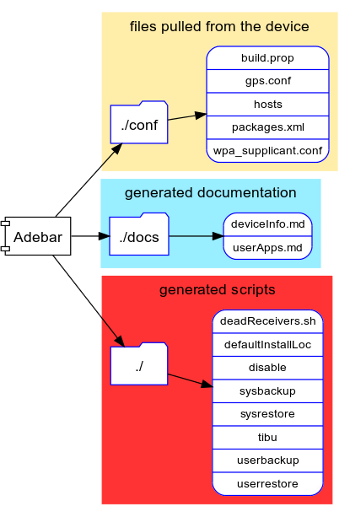
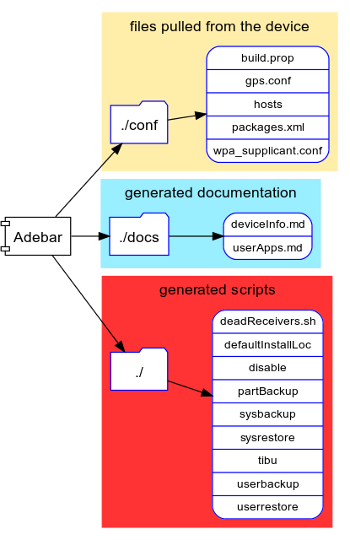
Partition info/backup added

Changed region(s): [[0.2, 0.0309, 0.9714, 0.9903], [0.0, 0.3404, 0.3143, 0.5261], [0.5714, 0.0928, 0.6, 0.1238]]

diff --git a/Configuration.md b/Configuration.md
@@ -37,6 +37,7 @@ A short information for each setting is contained in the example config file, wh
 * `USERDIR`: sub-directory where the backup scripts will place the ADB backups
   of your user-apps into (relative to where they're run). Default is "userApps".
 * `SYSDIR`: Similar, for the data backups of your system apps. Defaults to "sysApps".
+* `PARTBACKUPDIR`: again similar, for partition images
 * `DOCDIR`: Where to place created documentary files. Default is "docs", which results
   in `${STORAGE_PATH}/${OUTDIR}/docs`
 * `CONFDIR`: Similar for pulled config files (`conf/`). Default is "conf", which has
@@ -88,6 +89,21 @@ and `1` stands for „on”. By default, all features are enabled (i.e. set to `
 * `MK_INSTALLLOC`: Deal with the default-install-location (where apps should
   be installed by default: 0=auto (system decides), 1=device, 2=sdcard).
   Creates a 1-liner script to set that again.
+* `MK_PARTBACKUP`: Create a script to backup storage partitions (raw backup
+  images). Turned OFF by default.
+    * `PARTITION_SRC`: Where to obtain the partition details from. Reliability
+      of sources differs between manufacturers, devices, ROMs, and possible
+      other modifications. If this is set to "auto", *Adebar* tries to figure
+      the best source itself. It currently considers `/proc/mtd`, `/proc/emmc`,
+      `/dev/block/platform/*/by-name`, `/proc/partitions`, and `/proc/mounts`.
+      Moreover, found details are sometimes combined from different sources.
+      If for your device, *Adebar* seems to use the wrong source, or you want
+      to "speed up" things a little, you can define the source to be used with
+      this setting. Available options are currently: auto|mtd|emmc|byname|parts.
+      Most reliable details seem to be available on MediaTek devices, but I
+      have none at my disposal to check. You might get a „green hint“ if that
+      source was detected. If that happens, please get in contact with me, so I
+      can improve *Adebar* with your help.
 * `MK_DEVICEINFO`: Create a (Markdown) document containing device information.
   For an example, see the [[example deviceInfo.md]].
     * `MK_DEVICEINFO_SENSORS`: Sensor details are part of device-info; if you
@@ -98,6 +114,7 @@ and `1` stands for „on”. By default, all features are enabled (i.e. set to `
       might decide it's not useful to you (as it looks a bit cryptic). So I
       decided to give you the change to switch it off :)
     * `MK_DEVICEINFO_STATUS`: Device status details, such as battery status
+    * `MK_PARTINFO`: Include details on storage partitions
 
 ### UserApp specifics
 When an app is installed, Android records the „installer“ together with other

diff --git a/Hints.md b/Hints.md
@@ -70,3 +70,31 @@ inside – and of course the backups reside on one of the two.
 Disadvantage here is that *TiBu* touches the timestamps of all files, so the
 original timestamps are lost: All files appear as if they would have been created
 at the time the backup was made.
+
+
+## Partition Backup
+Version 1.1.0 of *Adebar* added the functionality to create a script for
+backing up your partitions block-wise, i.e. create partition images. Consider
+this rather experimental: This script is a side-product of the partition info
+in the device documentation. Such images can get rather big, and running the
+script as-is might result in unnecessary "duplicates" (to give you an example:
+If might backup `/dev/block/mmcblk1`, which basically is the entire „drive“,
+and additionally all its partitions separately: `/dev//dev/block/mmcblk1p*`).
+This is because there's no unified way of retrieving partition details. Other
+than with „normal Linux systems“, Android installations don't come with
+`/etc/fstab` by default (though you might find such with your custom ROM or
+*Busybox* installation). So *Adebar* collects all details, and lets you decide.
+
+Which also is the reason this generated script is not made executable (so you
+don't run it accidentally before having it investigated and adjusted to your
+needs).
+
+The generated images could, similar to a *Nandroid* backup, be used to restore
+the device. But be very careful with this approach: Never ever try writing a
+partition which is in use (e.g. do not replace `/system` while your device is
+running in „normal operation mode“). Make sure you know what you are doing
+*before* you start doing it, or you might end up with a broken device.
+
+Which is why I won't give instructions on how to restore those images. If you're
+knowing what you're doing, you also know how to do it. I take no responsibility
+for any results (but if they're positive, I'm open to donations).
